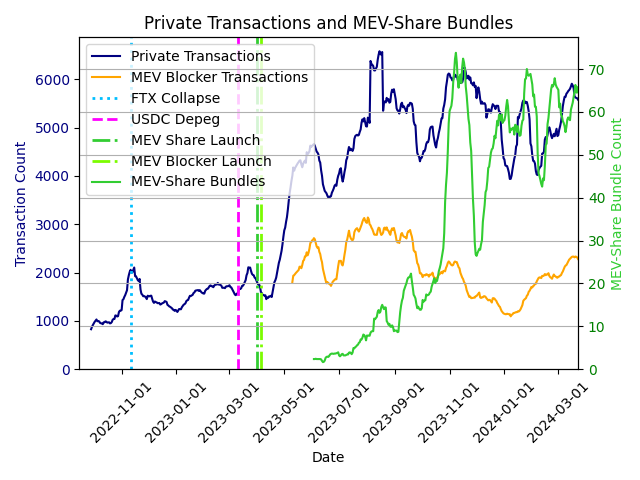
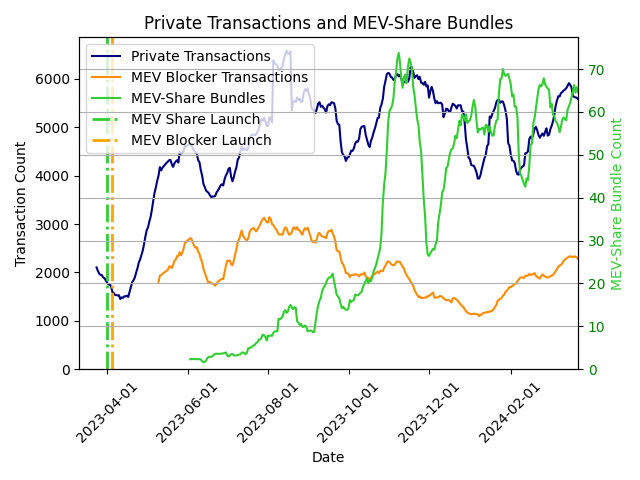
neat legends for double axes plots

diff --git a/section_5/5.3_post_merge/5.3.1_private_ofa/private_mev_ofa.py b/section_5/5.3_post_merge/5.3.1_private_ofa/private_mev_ofa.py
@@ -5,7 +5,7 @@ import matplotlib.dates as mdates
 def load_and_prepare_data(filepath):
     data = pd.read_csv(filepath)
     data['block_date'] = pd.to_datetime(data['block_date'])
-    filtered_data = data[data['block_date'] >= pd.Timestamp('2022-09-15')]
+    filtered_data = data[data['block_date'] >= pd.Timestamp('2023-03-11')]
     return filtered_data
 
 def aggregate_data(data):
@@ -15,34 +15,36 @@ def aggregate_data(data):
     data_by_date['private_tx_count'] = data_by_date['private_tx_count'].rolling(window=14).mean()
     return data_by_date
 
+import pandas as pd
+import matplotlib.pyplot as plt
+import matplotlib.dates as mdates
+
 def plot_data_double_axis(data, mev_share_data, mev_blocker_data, filepath):
-    # smoothen mev_share_data:
+    # Smoothing data
     mev_share_data['mev_share_bundle_count'] = mev_share_data['mev_share_bundle_count'].rolling(window=14).mean()
-    
-    # smoothen mev_blocker_data:
     mev_blocker_data['mined'] = mev_blocker_data['mined'].rolling(window=14).mean()
-    
+
     fig, ax1 = plt.subplots()
 
+    # First axis plots
     color = 'navy'
     ax1.set_xlabel('Date')
-    ax1.set_ylabel('Transaction Count', color=color)
-    ax1.plot(data['block_date'], data['private_tx_count'], color=color, label='Private Transactions')
-    ax1.tick_params(axis='y', labelcolor=color)
-    
-    color = 'orange'
-    ax1.plot(mev_blocker_data['block_date'], mev_blocker_data['mined'], color=color, label='MEV Blocker Transactions')
-    
-    ax2 = ax1.twinx()  # Instantiate a second axes that shares the same x-axis
+    ax1.set_ylabel('Transaction Count', color="black")
+    line1, = ax1.plot(data['block_date'], data['private_tx_count'], color=color, label='Private Transactions')
+    ax1.tick_params(axis='y', labelcolor="black")
+
+    color = 'darkorange'
+    line2, = ax1.plot(mev_blocker_data['block_date'], mev_blocker_data['mined'], color=color, label='MEV Blocker Transactions')
+
+    # Second axis plots
+    ax2 = ax1.twinx()  
     color = 'limegreen'
     ax2.set_ylabel('MEV-Share Bundle Count', color=color)
-    ax2.plot(mev_share_data['block_date'], mev_share_data['mev_share_bundle_count'], linestyle='-', color=color, label='MEV-Share Bundles')
+    line3, = ax2.plot(mev_share_data['block_date'], mev_share_data['mev_share_bundle_count'], linestyle='-', color=color, label='MEV-Share Bundles')
     ax2.tick_params(axis='y', labelcolor='green')
-    ax2.tick_params(axis='x', colors='green')
 
+    # Date formatting
     plt.setp(ax1.get_xticklabels(), rotation=45, ha="center")
-    plt.setp(ax2.get_xticklabels(), rotation=45, ha="center")
-
     plt.title('Private Transactions and MEV-Share Bundles')
     ax1.xaxis.set_major_locator(mdates.MonthLocator(interval=2))
     ax1.xaxis.set_major_formatter(mdates.DateFormatter('%Y-%m-%d'))
@@ -51,29 +53,27 @@ def plot_data_double_axis(data, mev_share_data, mev_blocker_data, filepath):
     ax1.set_ylim(0)
     ax2.set_ylim(0)
 
+    # Significant dates
     significant_dates = {
-        '2022-11-11': ('deepskyblue', ':', 'FTX Collapse'),
-        '2023-03-11': ('fuchsia', '--', 'USDC Depeg'),
         '2023-04-01': ('limegreen', '-.', 'MEV Share Launch'),
-        '2023-04-05': ('lawngreen', '-.', 'MEV Blocker Launch'),
+        '2023-04-05': ('orange', '-.', 'MEV Blocker Launch'),
     }
+    date_lines = []
     for date, (color, linestyle, label) in significant_dates.items():
-        ax1.axvline(pd.Timestamp(date), color=color, linestyle=linestyle, linewidth=2, label=label)
+        line = ax1.axvline(pd.Timestamp(date), color=color, linestyle=linestyle, linewidth=2, label=label)
+        date_lines.append((line, label))
 
     fig.tight_layout()  # Adjust layout to make room for the legend
 
-    # Collect all the legend handles and labels
-    handles, labels = [], []
-    for ax in [ax1, ax2]:
-        for handle, label in zip(*ax.get_legend_handles_labels()):
-            handles.append(handle)
-            labels.append(label)
+    # Manually setting legend order
+    handles = [line1, line2, line3] + [dl[0] for dl in date_lines]
+    labels = ['Private Transactions', 'MEV Blocker Transactions', 'MEV-Share Bundles'] + [dl[1] for dl in date_lines]
     ax1.legend(handles, labels, loc='upper left')
 
     plt.grid(True)
-    # Move the rotation setting to the very end after all plotting
     plt.setp(ax1.get_xticklabels(), rotation=45)
     plt.savefig(filepath)
+
 
 def plot_data_single_axis(data_by_date, mev_share_data, filepath):
 
